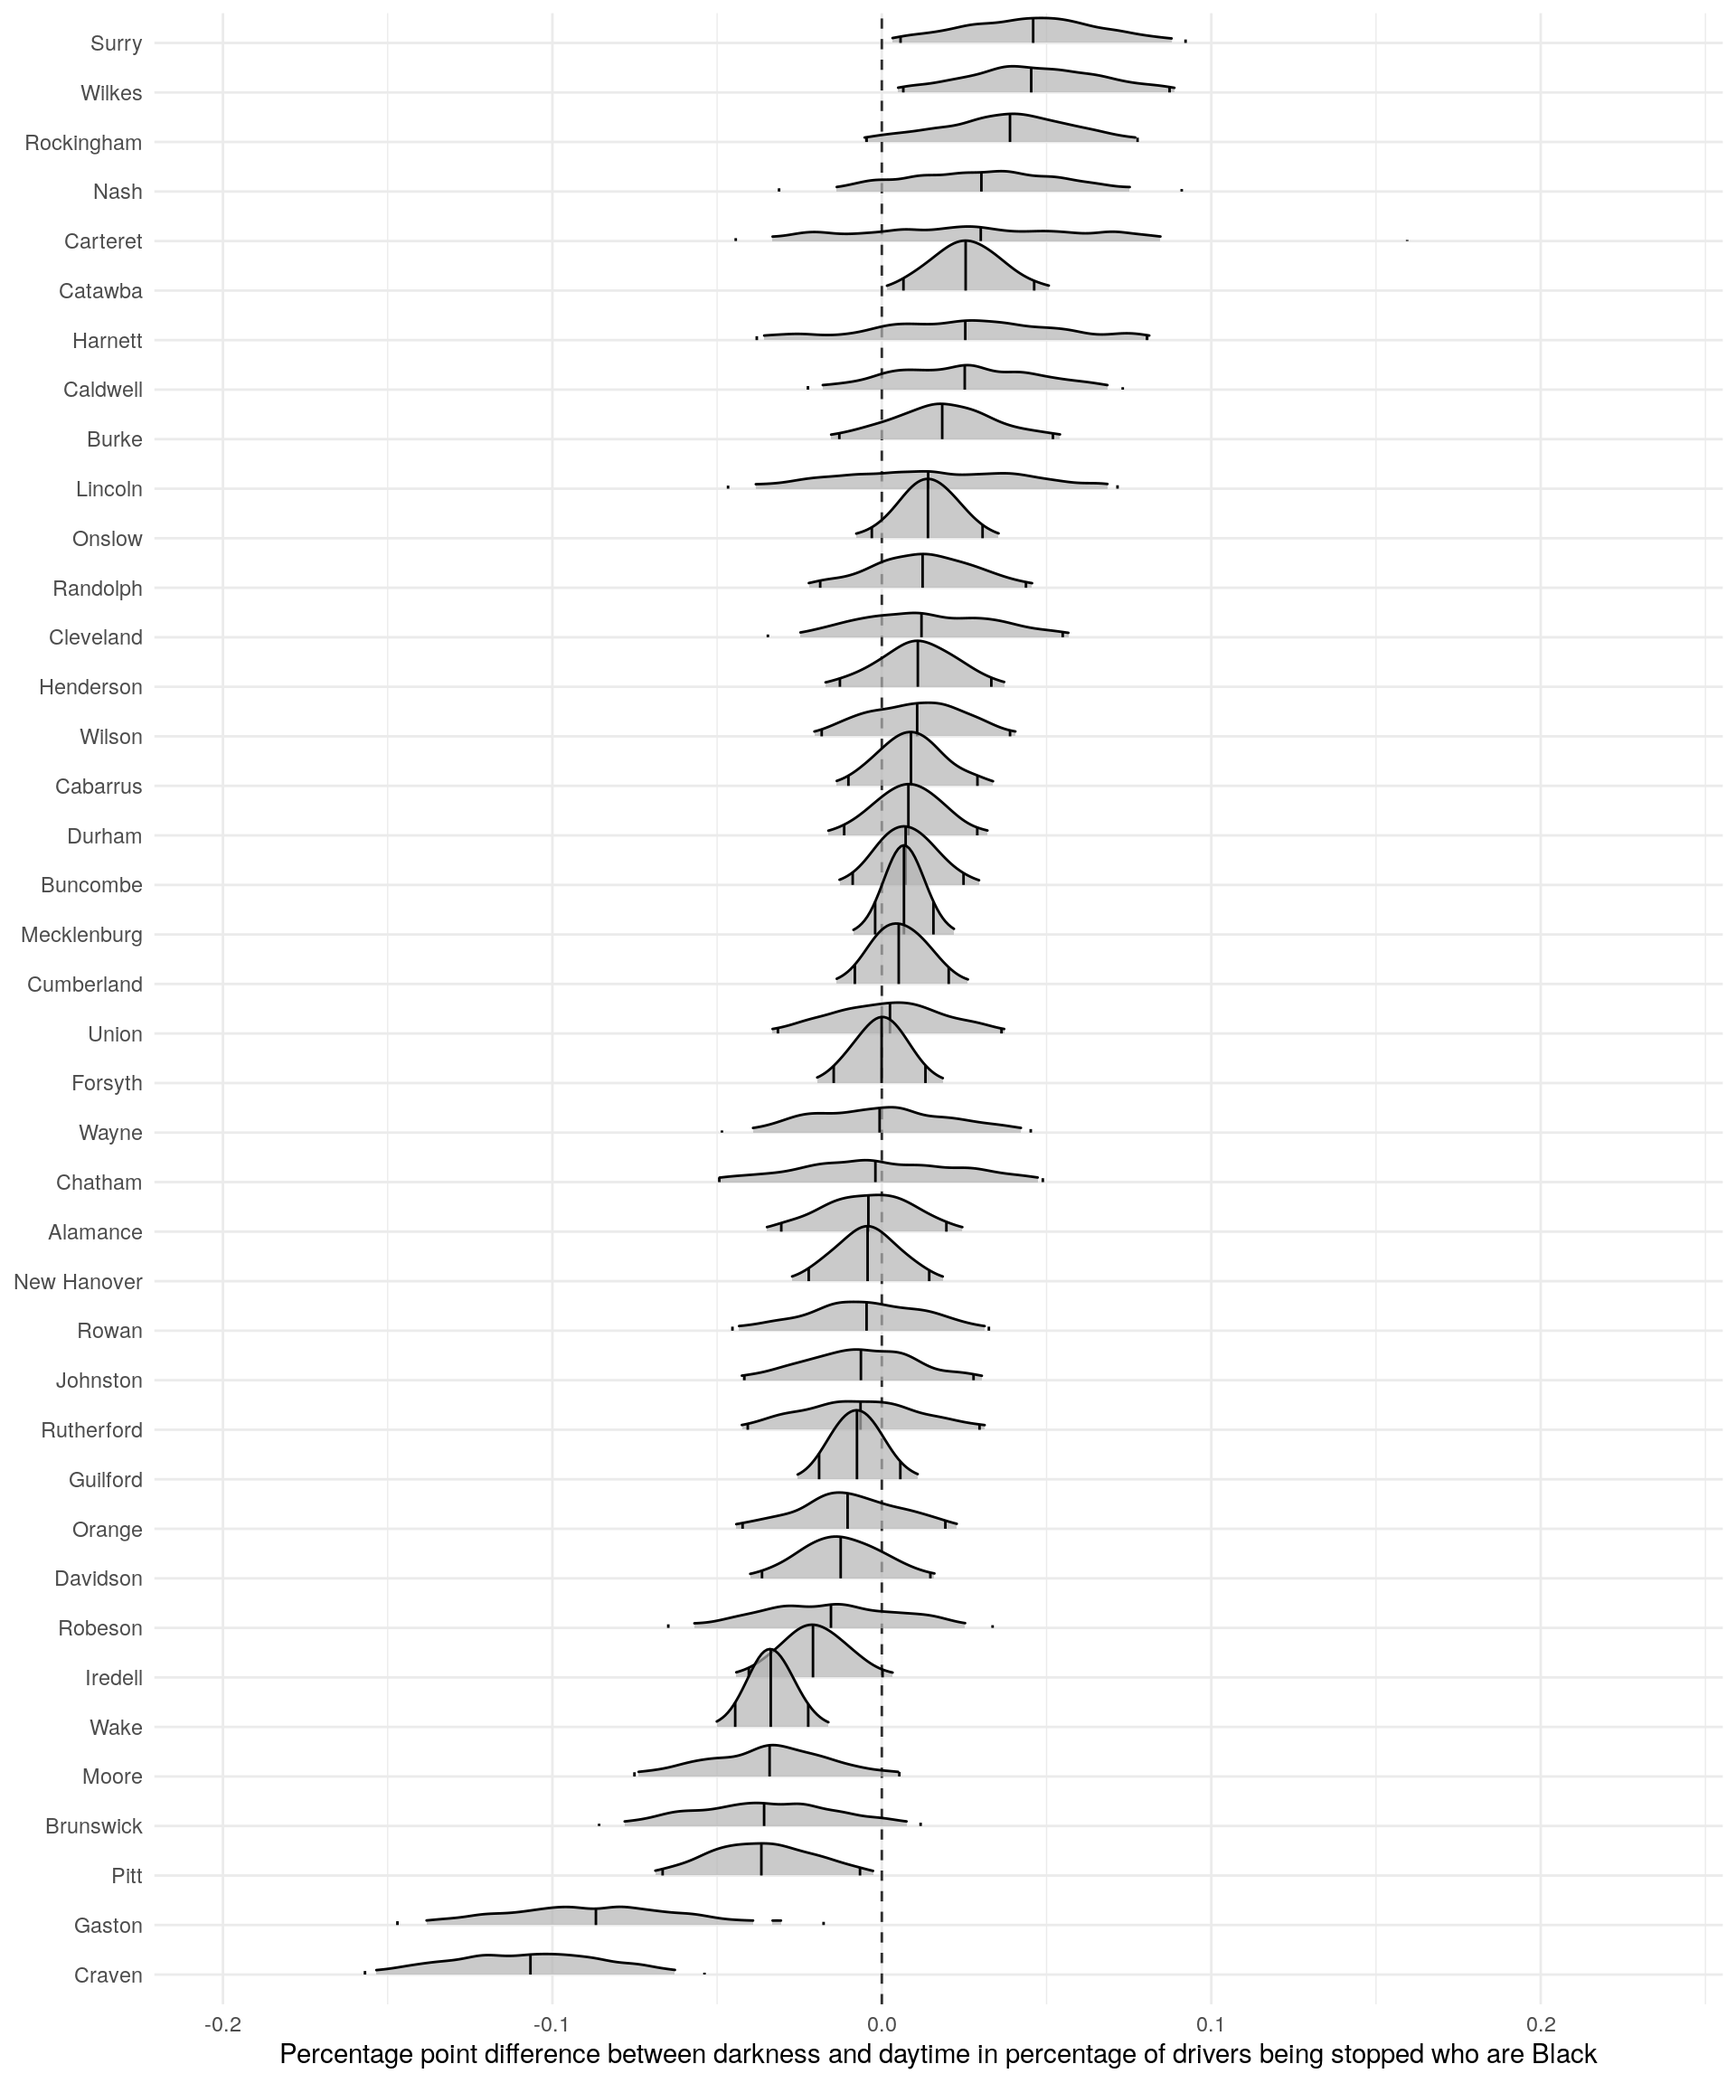
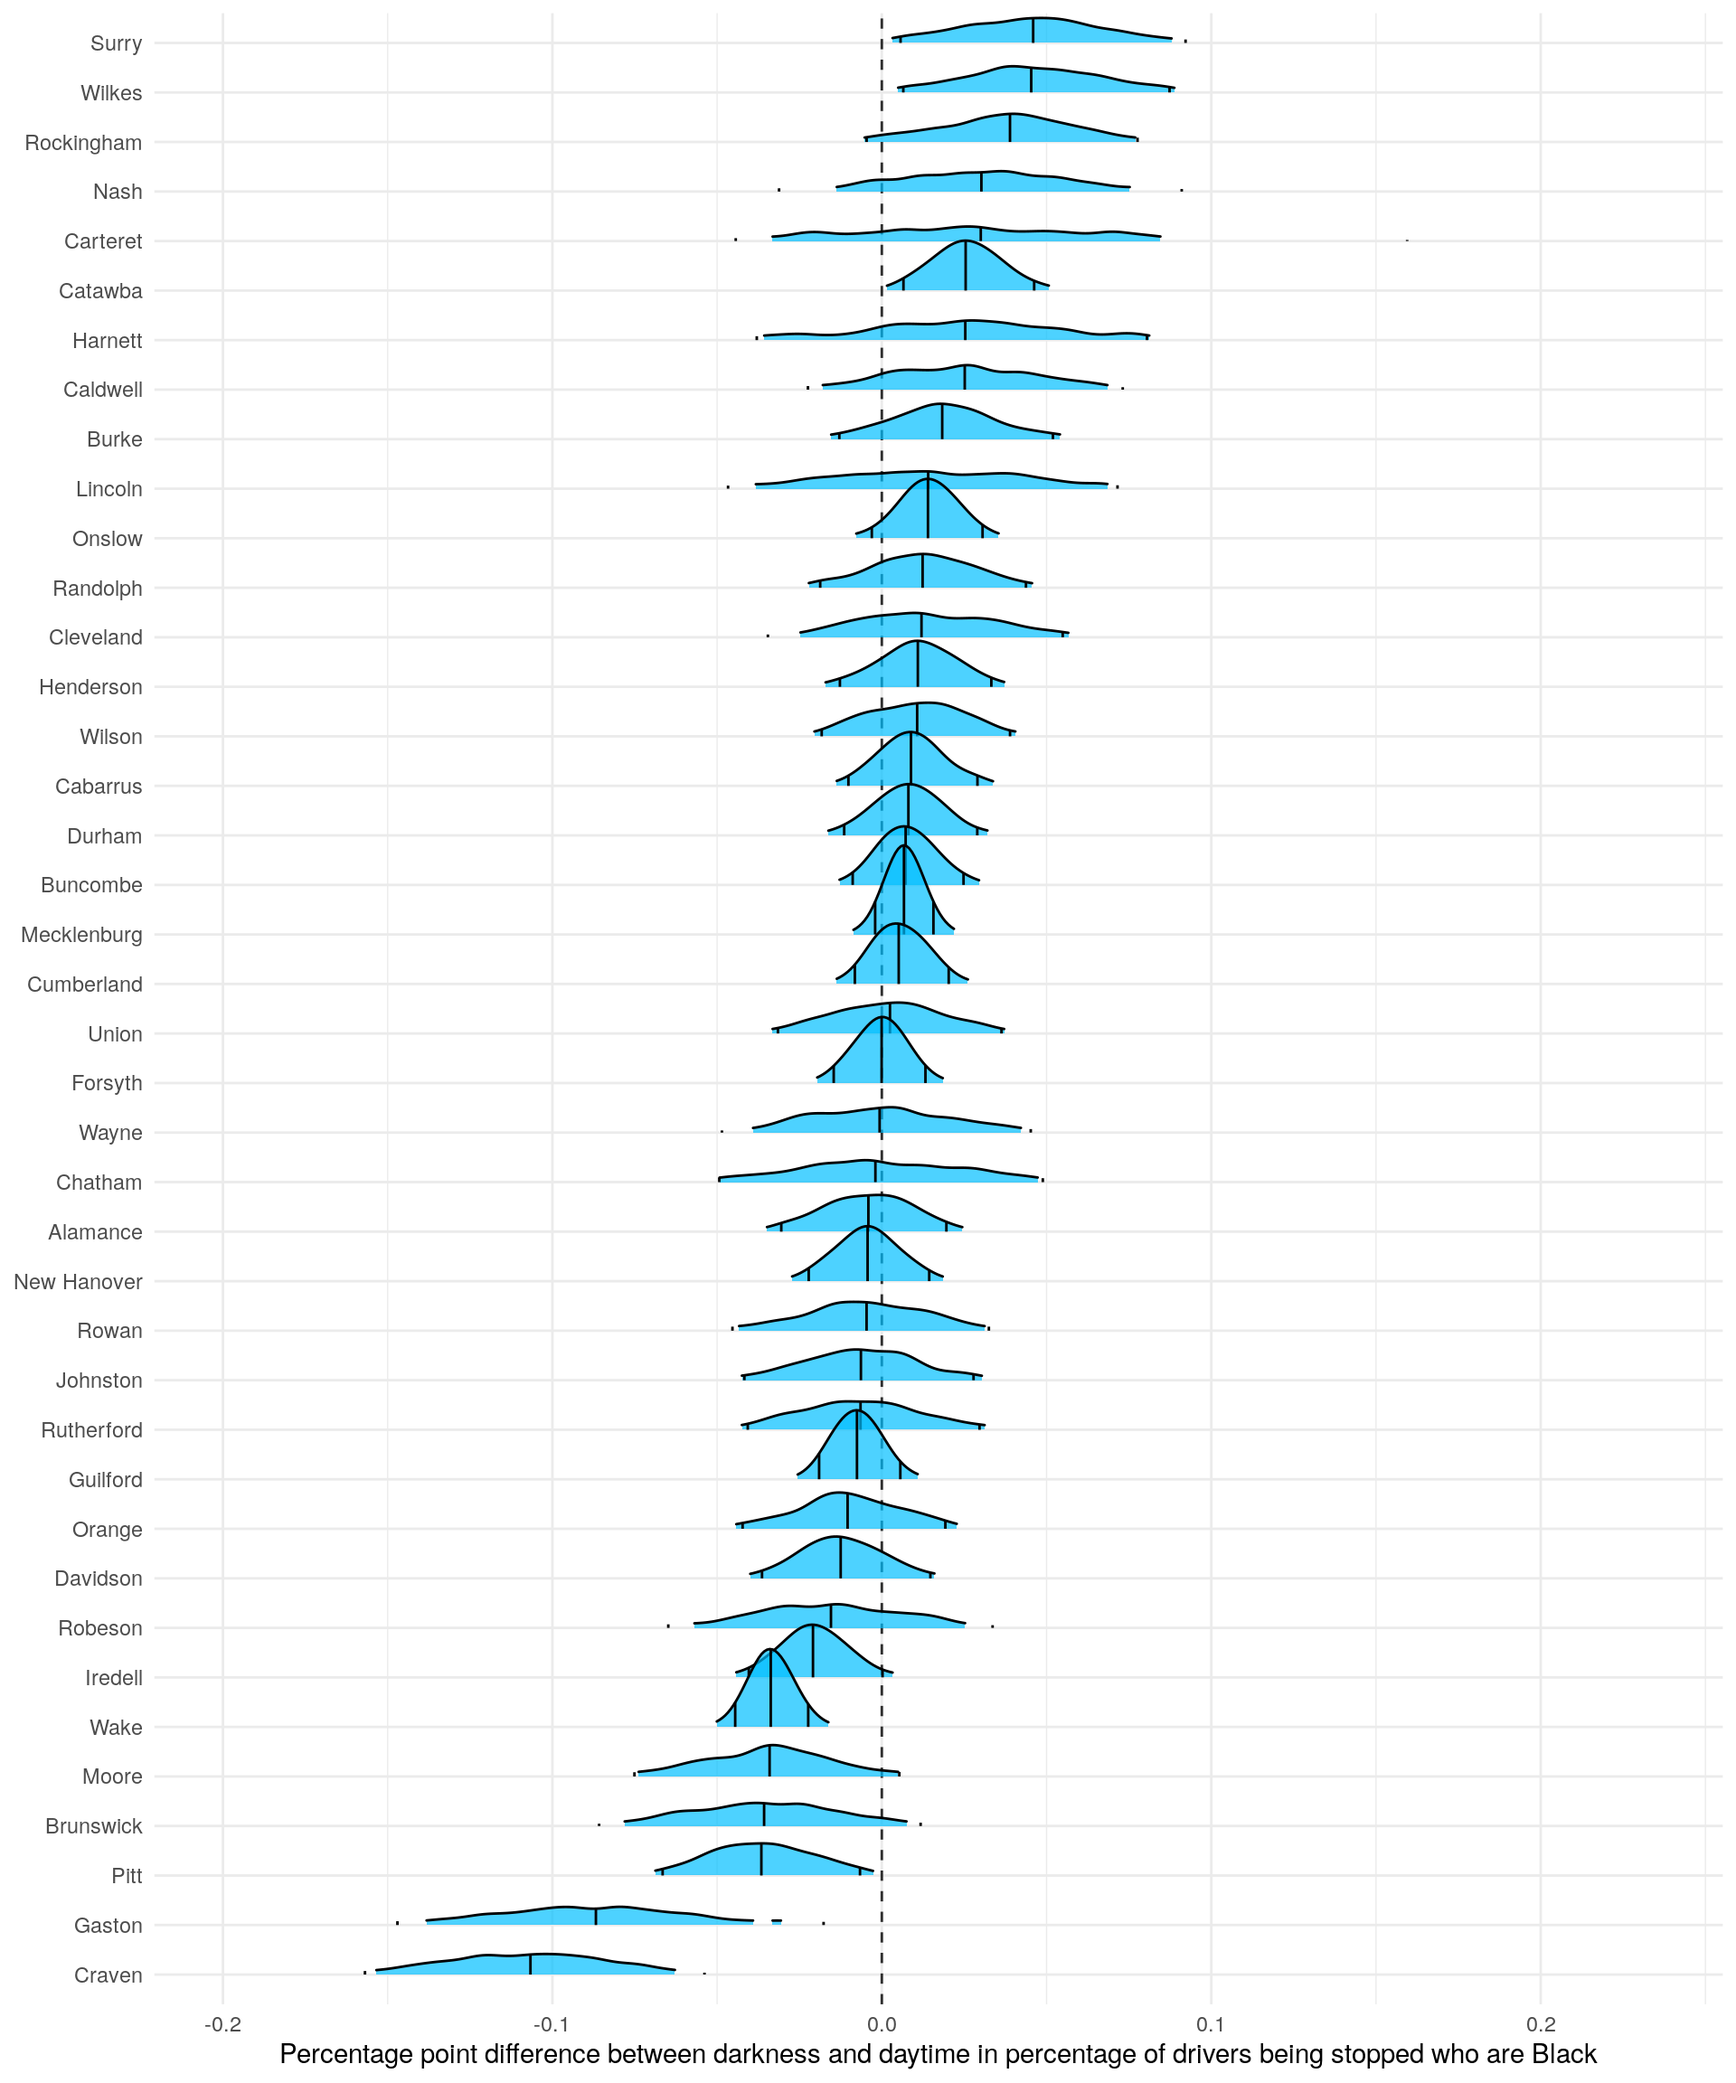
update colors in plot - veil of darkenss

Changed region(s): [[0.2188, 0.0, 0.6562, 0.9688]]

diff --git a/content/post/2021-07-18-using-the-veil-of-darkness-test-to-evaulate-discrimination-in-traffic-stops/index.en.html b/content/post/2021-07-18-using-the-veil-of-darkness-test-to-evaulate-discrimination-in-traffic-stops/index.en.html
@@ -589,7 +589,11 @@ diff_dark_1140 %&gt;%
   mutate(county = factor(county, levels = county_order_by_hdi)) %&gt;%
   ggplot(aes(estimate, county)) +
   geom_vline(xintercept = 0, linetype = 2, alpha = .8) +
-  stat_density_ridges(quantile_lines = TRUE, quantiles = c(0.025, .5, 0.975), alpha = 0.7, rel_min_height = 0.05) +
+  stat_density_ridges(
+    quantile_lines = TRUE, quantiles = c(0.025, .5, 0.975), 
+    alpha = 0.7, rel_min_height = 0.05, 
+    fill = &#39;deepskyblue&#39;, alpha = .25
+  ) +
   labs(
     y = NULL,
     x = &#39;Percentage point difference between darkness and daytime in percentage of drivers being stopped who are Black&#39;
